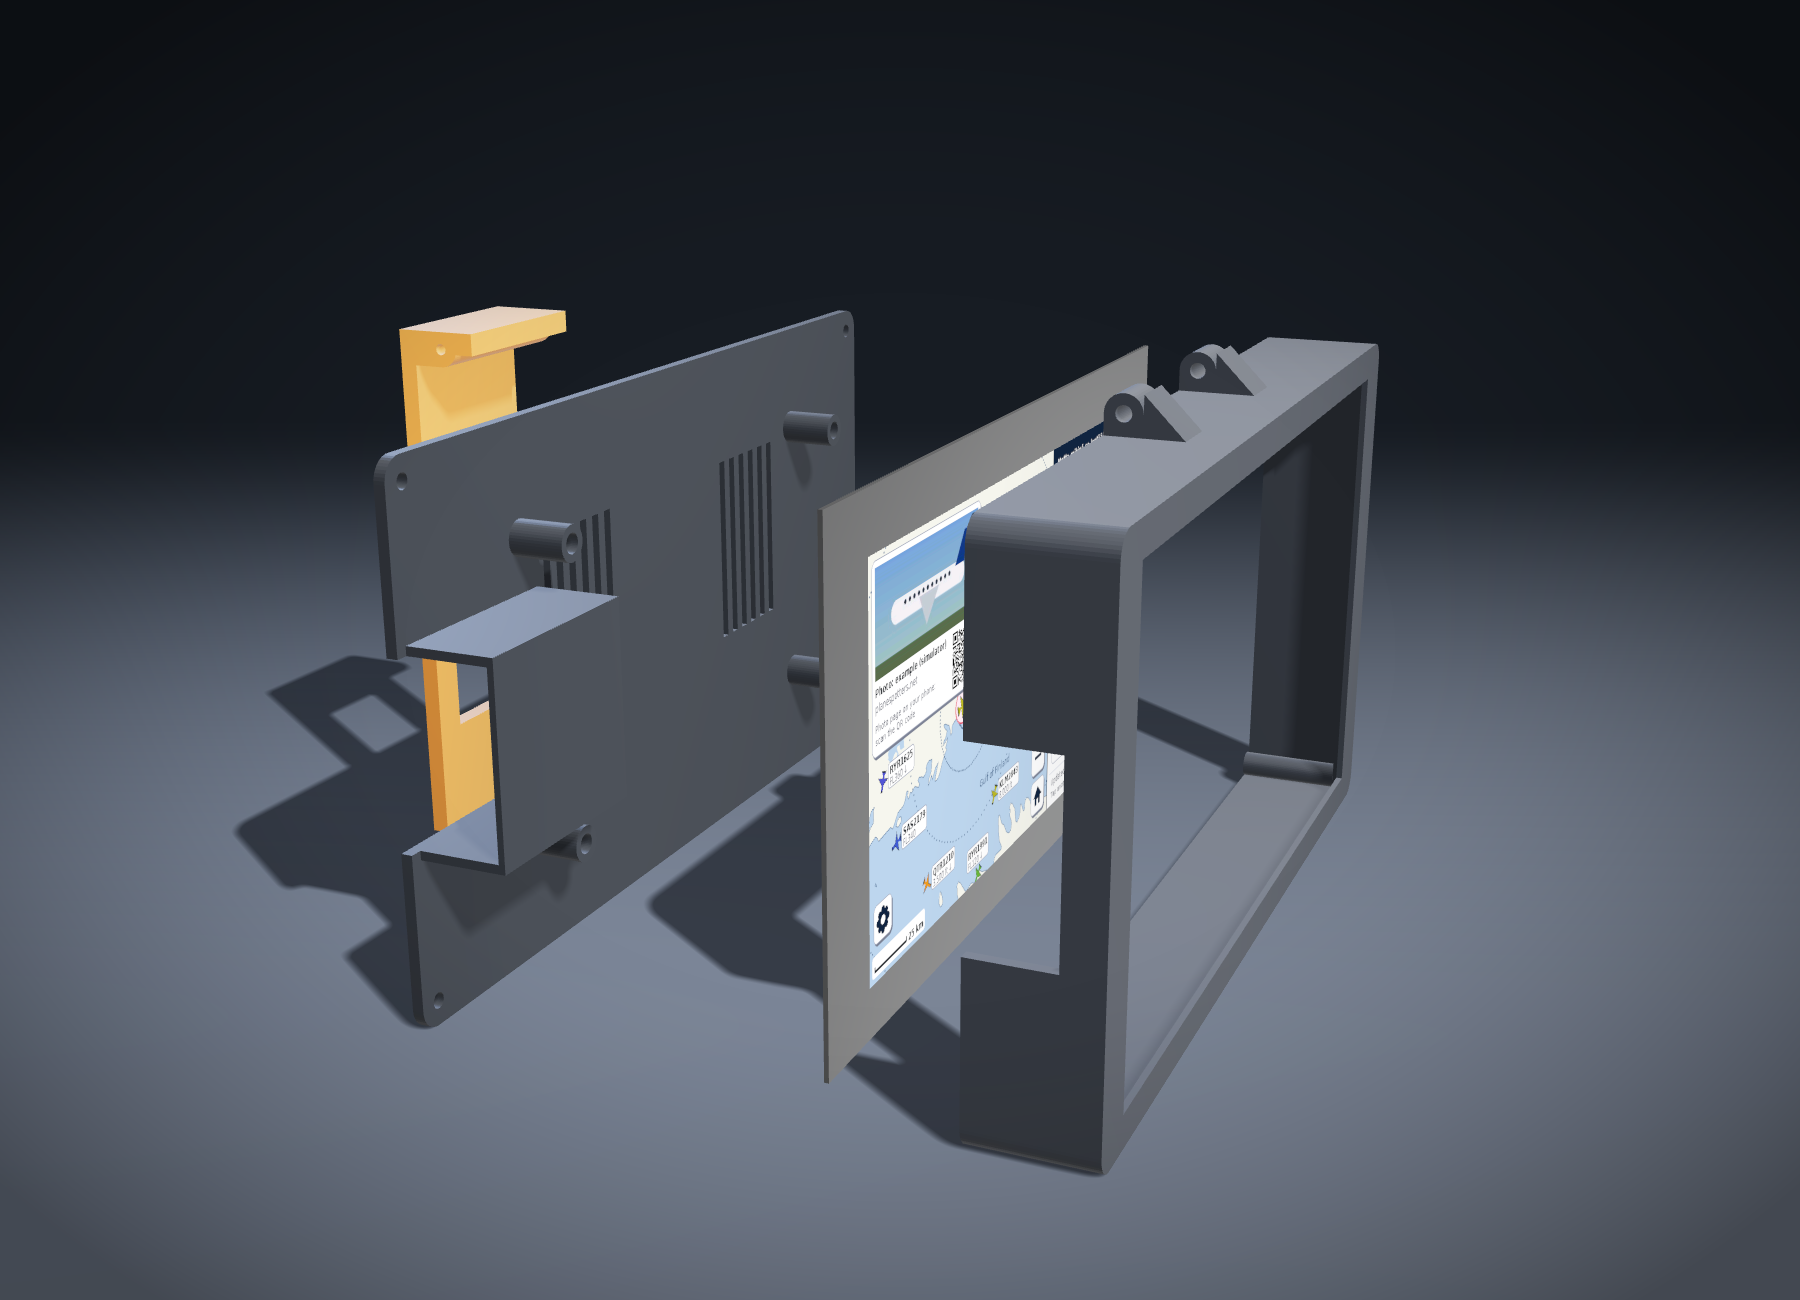
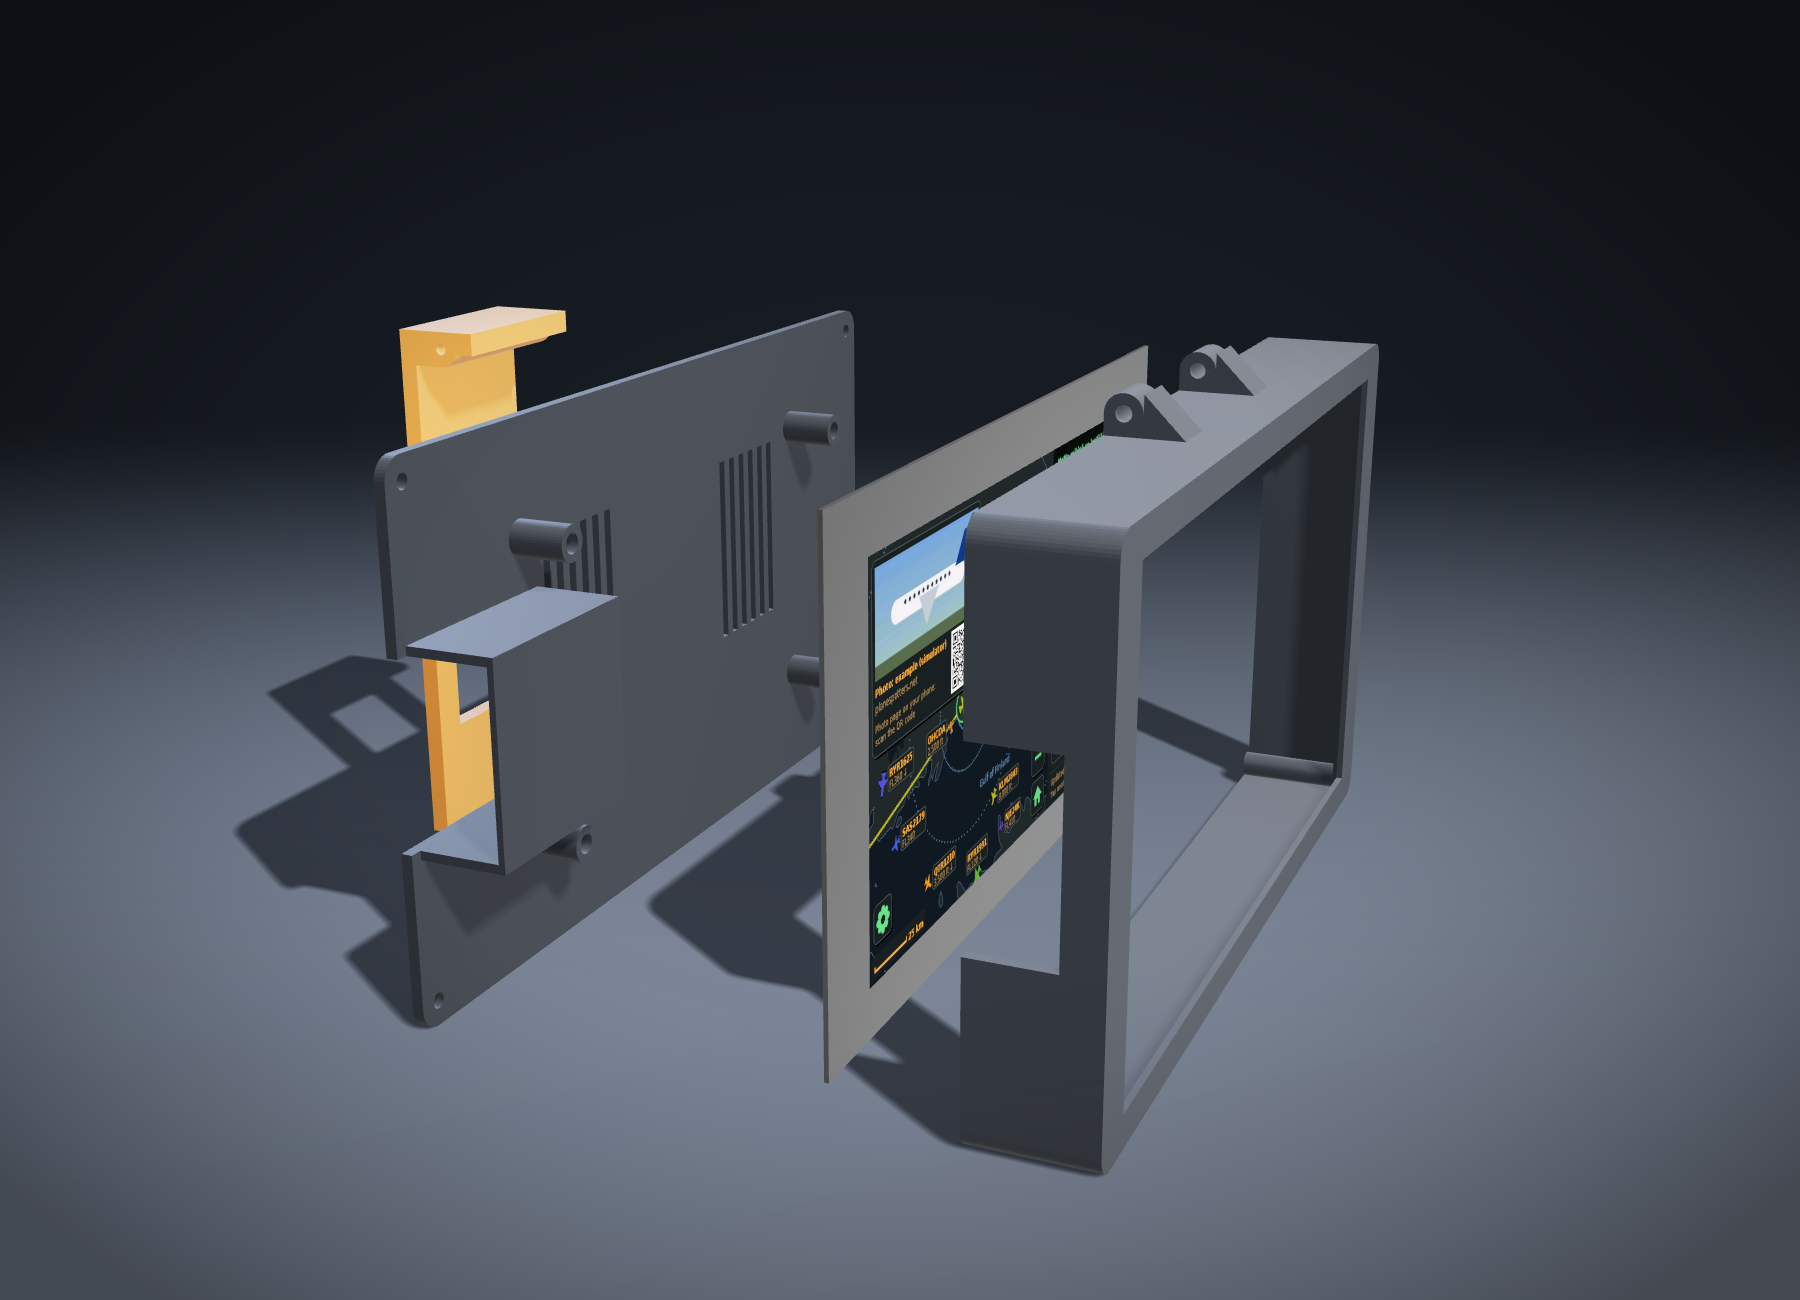
Screenshots in dark mode
Map, selected flight, zoomed-out view, setting home and the settings
screen retaken from the simulator in dark mode, the phone page in its
dark colours, a new social card and the case renders with the dark UI.

Changed region(s): [[0.4667, 0.4, 0.5911, 0.7692], [0.56, 0.3077, 0.6222, 0.3692], [0.5289, 0.3692, 0.56, 0.4]]

diff --git a/docs/index.html b/docs/index.html
@@ -82,7 +82,7 @@
   </div>
 
   <div class="feature">
-    <div class="frame"><img class="shot" src="img/dark.png" width="800" height="480" alt="The dark colours: amber and green on black" loading="lazy"></div>
+    <div class="frame"><img class="shot" src="img/settings.png" width="800" height="480" alt="The settings screen with the dark mode switch" loading="lazy"></div>
     <div>
       <p class="num">04</p>
       <h3>Dark mode</h3>

diff --git a/README.md b/README.md
@@ -6,12 +6,12 @@ The name is Finnish, roughly "so, where's that one flying to?". The screen is in
 
 You can [try it in the browser](https://n41kh05.github.io/notta-mihina-se-lentaa/simulator.html?v=20) before buying anything. That page runs the firmware's own drawing and touch code compiled to WebAssembly, with made-up traffic.
 
-<p align="center"><img src="docs/img/hero.png" width="720" alt="The display with a selected flight from Stockholm to Oulu"></p>
+<p align="center"><img src="docs/img/hero.png" width="720" alt="The display in its case, showing a flight from Stockholm to Oulu in dark mode"></p>
 
 <p align="center">
 <img src="docs/img/map.png" width="400" alt="Map with planes around Helsinki">
 <img src="docs/img/zoomout.png" width="400" alt="Zoomed out over the Baltic Sea">
-<img src="docs/img/dark.png" width="400" alt="Dark mode">
+<img src="docs/img/selected.png" width="400" alt="A selected flight with its route and photo">
 </p>
 
 ## What it does
